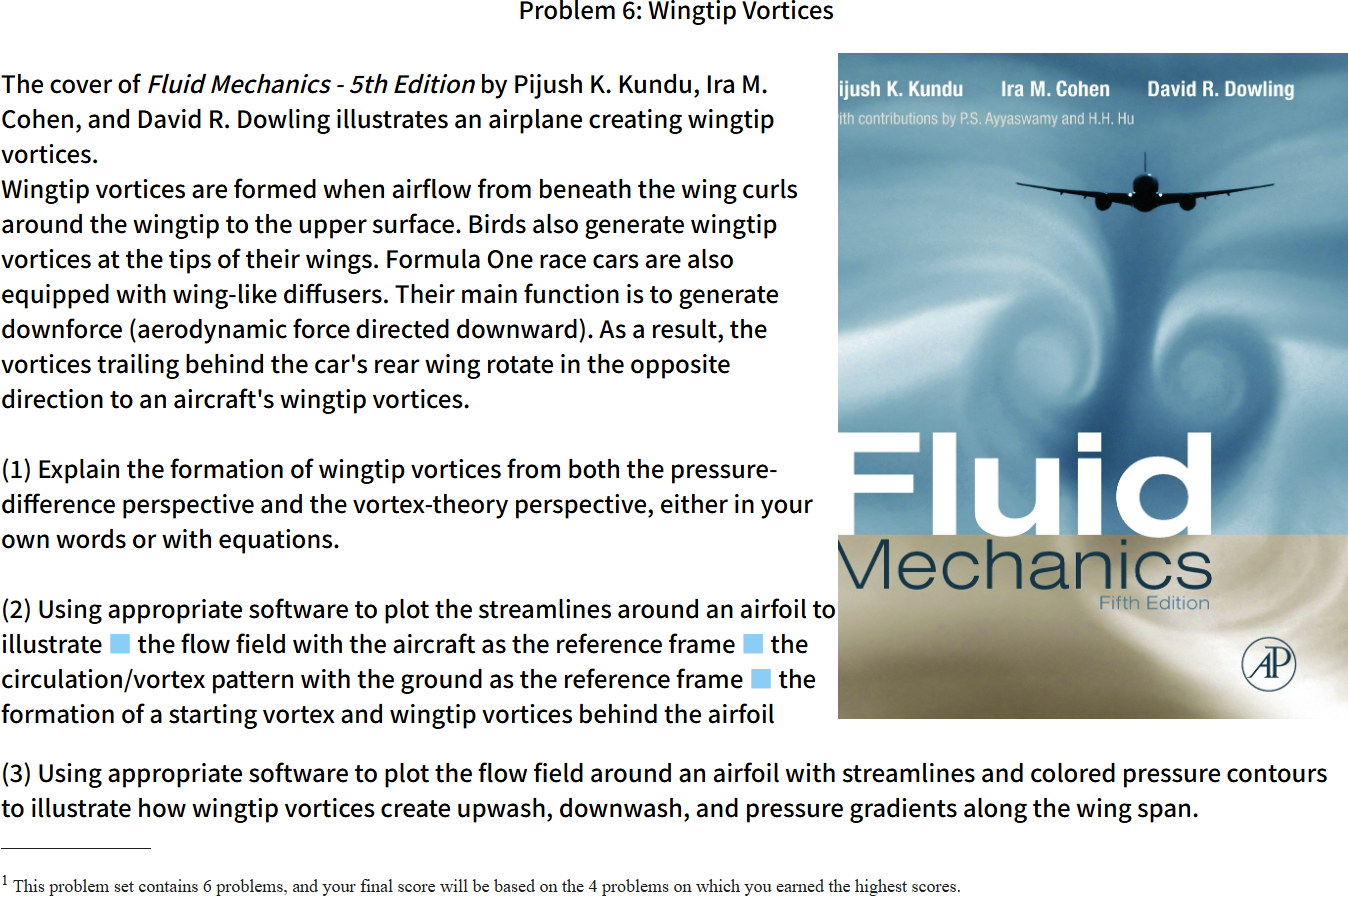
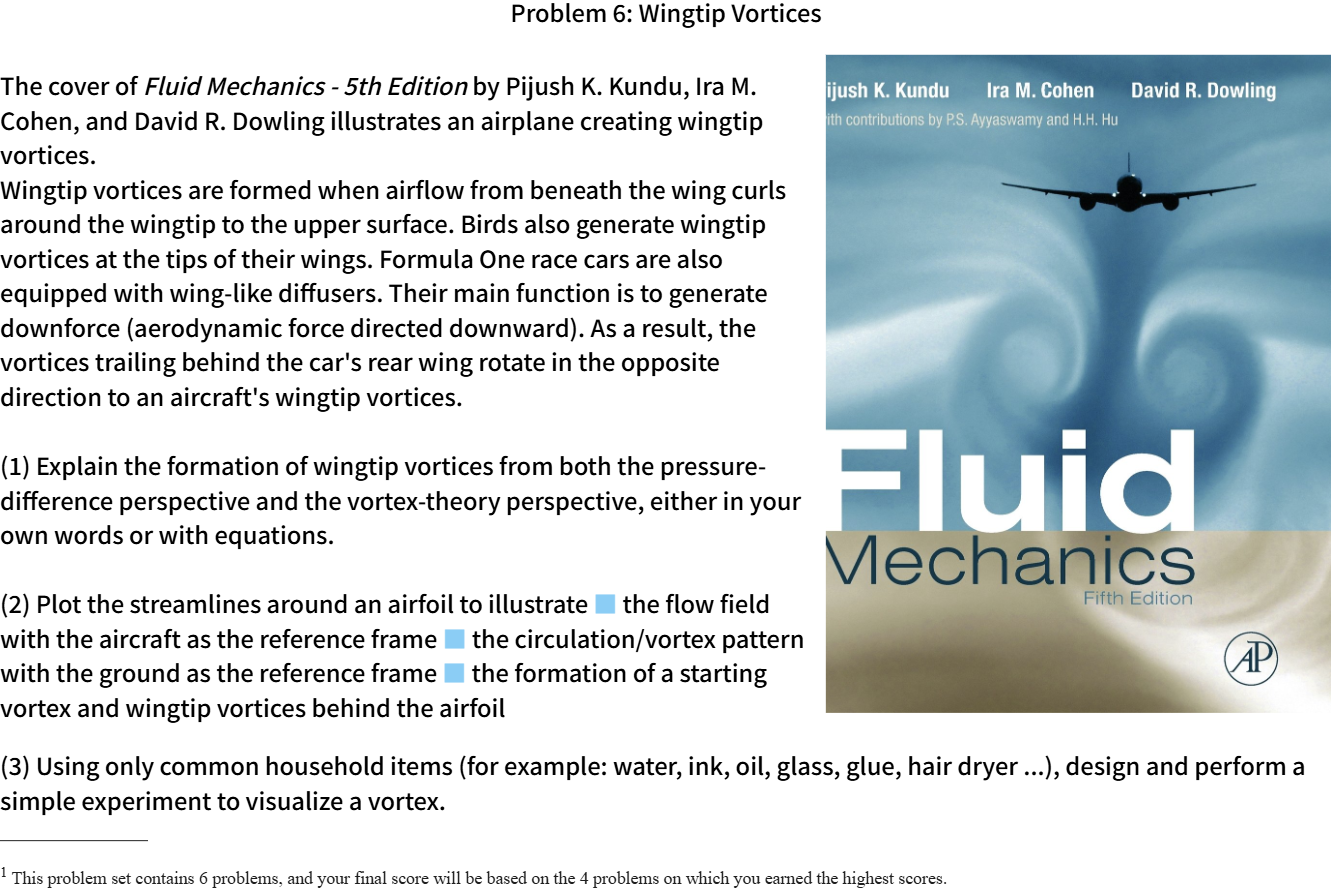
Update

diff --git a/PS2Slide7.html b/PS2Slide7.html
@@ -171,12 +171,12 @@ window.addEventListener('resize', scaleContainer);
 Birds also generate wingtip vortices at the tips of their wings. Formula One race cars are also equipped with wing-like diffusers. Their main function is to generate downforce (aerodynamic force directed downward). As a result, the vortices trailing behind the car's rear wing rotate in the opposite direction to an aircraft's wingtip vortices. <br><br>
 (1) Explain the formation of wingtip vortices from both the pressure-difference perspective and the vortex-theory perspective, either in your own words or with equations. <br><br>
 
-(2) Using appropriate software to plot the streamlines around an airfoil to illustrate <span class="bullet"></span>the flow field with the aircraft as the reference frame <span class="bullet"></span> the circulation/vortex pattern with the ground as the reference frame <span class="bullet"></span> the formation of a starting vortex and wingtip vortices behind the airfoil</p>
+(2) Plot the streamlines around an airfoil to illustrate <span class="bullet"></span>the flow field with the aircraft as the reference frame <span class="bullet"></span> the circulation/vortex pattern with the ground as the reference frame <span class="bullet"></span> the formation of a starting vortex and wingtip vortices behind the airfoil</p>
 
 <img src="Figures/PS2_KunduFifthCover.png" alt="KunduFifthCover" style="max-width: 38%; height: 100%; border: none;">
 </div>
 
-<p>(3) Using appropriate software to plot the flow field around an airfoil with streamlines and colored pressure contours to illustrate how wingtip vortices create upwash, downwash, and pressure gradients along the wing span.</p>
+<p>(3) Using only common household items (for example: water, ink, oil, glass, glue, hair dryer ...), design and perform a simple experiment to visualize a vortex.</p>
 
 
 
